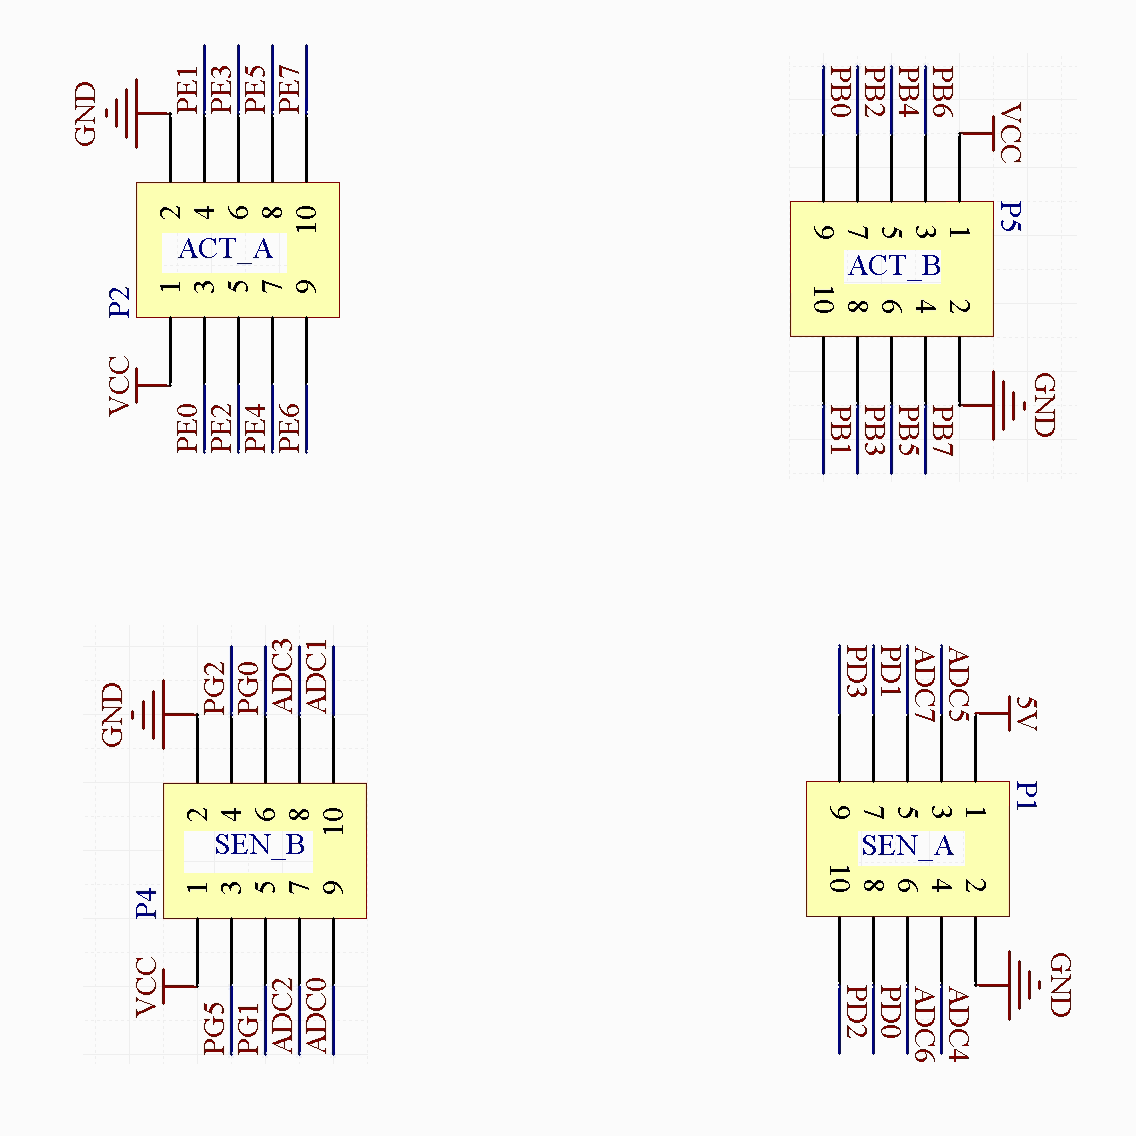
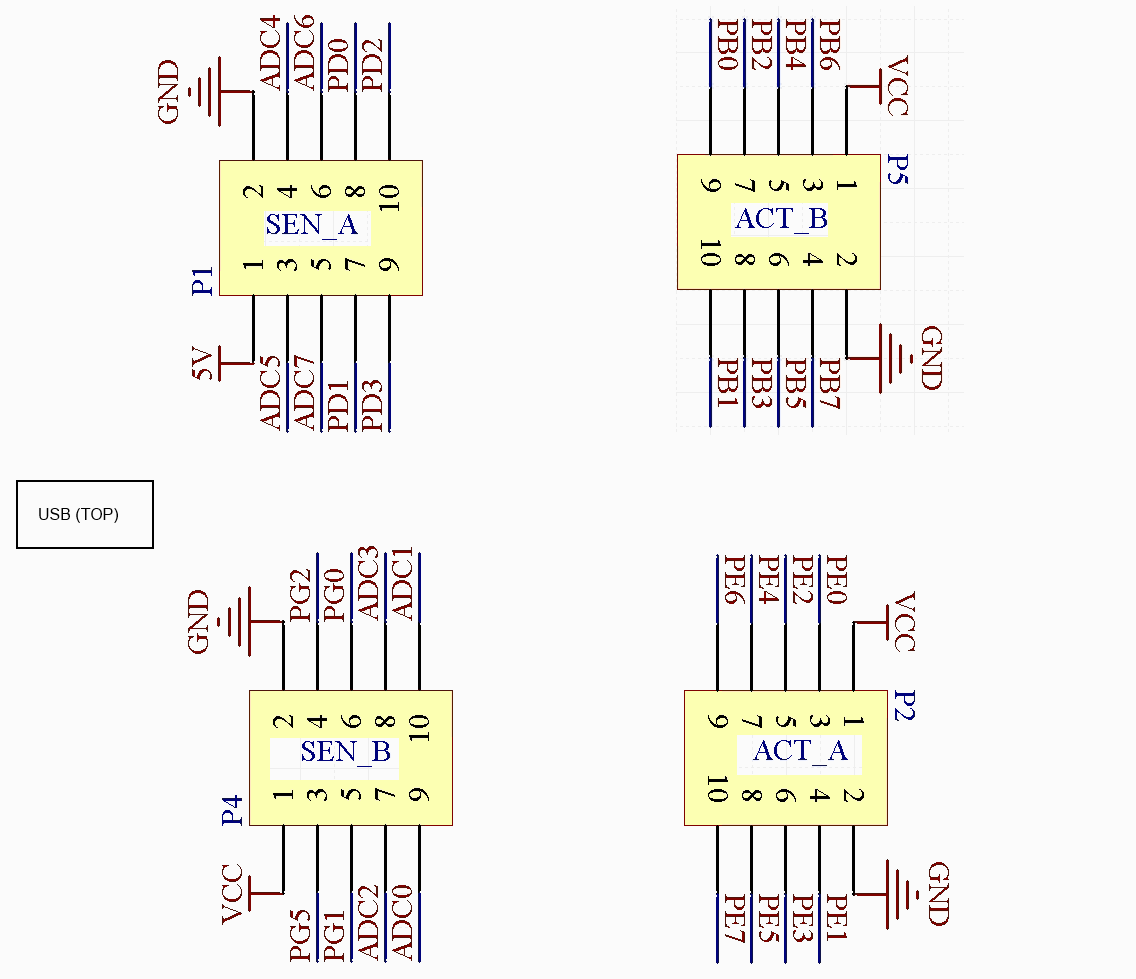
BaseBoard pin-out layout changed Dimmable status bug fix (float) SenderScreen minor changes Event subscription for status changes NetworkJoin and NodeServices fail behavior fix

diff --git a/SmartHome/App Smart Home Prototipo/Screens/SenderScreen.Designer.cs b/SmartHome/App Smart Home Prototipo/Screens/SenderScreen.Designer.cs
@@ -33,18 +33,14 @@
             this.listBoxHomeDevices = new System.Windows.Forms.ListBox();
             this.button1 = new System.Windows.Forms.Button();
             this.groupBox1 = new System.Windows.Forms.GroupBox();
-            this.tableLayoutPanel2 = new System.Windows.Forms.TableLayoutPanel();
-            this.labelState3 = new System.Windows.Forms.Label();
-            this.labelState2 = new System.Windows.Forms.Label();
-            this.labelState1 = new System.Windows.Forms.Label();
             this.groupBox2 = new System.Windows.Forms.GroupBox();
             this.tableLayoutPanel3 = new System.Windows.Forms.TableLayoutPanel();
             this.button2 = new System.Windows.Forms.Button();
             this.operationList = new System.Windows.Forms.ListBox();
+            this.flowLayoutPanelState = new System.Windows.Forms.FlowLayoutPanel();
             this.tableLayoutPanel1.SuspendLayout();
             this.groupBox8.SuspendLayout();
             this.groupBox1.SuspendLayout();
-            this.tableLayoutPanel2.SuspendLayout();
             this.groupBox2.SuspendLayout();
             this.SuspendLayout();
             // 
@@ -102,57 +98,13 @@
             this.groupBox1.Anchor = ((System.Windows.Forms.AnchorStyles)((((System.Windows.Forms.AnchorStyles.Top | System.Windows.Forms.AnchorStyles.Bottom) 
             | System.Windows.Forms.AnchorStyles.Left) 
             | System.Windows.Forms.AnchorStyles.Right)));
-            this.groupBox1.Controls.Add(this.tableLayoutPanel2);
+            this.groupBox1.Controls.Add(this.flowLayoutPanelState);
             this.groupBox1.Location = new System.Drawing.Point(237, 3);
             this.groupBox1.Name = "groupBox1";
             this.groupBox1.Size = new System.Drawing.Size(228, 362);
             this.groupBox1.TabIndex = 34;
             this.groupBox1.TabStop = false;
             this.groupBox1.Text = "STATE";
-            // 
-            // tableLayoutPanel2
-            // 
-            this.tableLayoutPanel2.ColumnCount = 1;
-            this.tableLayoutPanel2.ColumnStyles.Add(new System.Windows.Forms.ColumnStyle(System.Windows.Forms.SizeType.Percent, 100F));
-            this.tableLayoutPanel2.ColumnStyles.Add(new System.Windows.Forms.ColumnStyle(System.Windows.Forms.SizeType.Absolute, 20F));
-            this.tableLayoutPanel2.Controls.Add(this.labelState3, 0, 2);
-            this.tableLayoutPanel2.Controls.Add(this.labelState2, 0, 1);
-            this.tableLayoutPanel2.Controls.Add(this.labelState1, 0, 0);
-            this.tableLayoutPanel2.Location = new System.Drawing.Point(6, 19);
-            this.tableLayoutPanel2.Name = "tableLayoutPanel2";
-            this.tableLayoutPanel2.RowCount = 3;
-            this.tableLayoutPanel2.RowStyles.Add(new System.Windows.Forms.RowStyle(System.Windows.Forms.SizeType.Percent, 33.33333F));
-            this.tableLayoutPanel2.RowStyles.Add(new System.Windows.Forms.RowStyle(System.Windows.Forms.SizeType.Percent, 33.33333F));
-            this.tableLayoutPanel2.RowStyles.Add(new System.Windows.Forms.RowStyle(System.Windows.Forms.SizeType.Percent, 33.33333F));
-            this.tableLayoutPanel2.Size = new System.Drawing.Size(215, 337);
-            this.tableLayoutPanel2.TabIndex = 0;
-            // 
-            // labelState3
-            // 
-            this.labelState3.AutoSize = true;
-            this.labelState3.Location = new System.Drawing.Point(3, 224);
-            this.labelState3.Name = "labelState3";
-            this.labelState3.Size = new System.Drawing.Size(35, 13);
-            this.labelState3.TabIndex = 2;
-            this.labelState3.Text = "label3";
-            // 
-            // labelState2
-            // 
-            this.labelState2.AutoSize = true;
-            this.labelState2.Location = new System.Drawing.Point(3, 112);
-            this.labelState2.Name = "labelState2";
-            this.labelState2.Size = new System.Drawing.Size(35, 13);
-            this.labelState2.TabIndex = 1;
-            this.labelState2.Text = "label2";
-            // 
-            // labelState1
-            // 
-            this.labelState1.AutoSize = true;
-            this.labelState1.Location = new System.Drawing.Point(3, 0);
-            this.labelState1.Name = "labelState1";
-            this.labelState1.Size = new System.Drawing.Size(35, 13);
-            this.labelState1.TabIndex = 0;
-            this.labelState1.Text = "label1";
             // 
             // groupBox2
             // 
@@ -202,6 +154,14 @@
             this.operationList.TabIndex = 0;
             this.operationList.SelectedIndexChanged += new System.EventHandler(this.SetSenderOperationForm);
             // 
+            // flowLayoutPanelState
+            // 
+            this.flowLayoutPanelState.FlowDirection = System.Windows.Forms.FlowDirection.TopDown;
+            this.flowLayoutPanelState.Location = new System.Drawing.Point(7, 19);
+            this.flowLayoutPanelState.Name = "flowLayoutPanelState";
+            this.flowLayoutPanelState.Size = new System.Drawing.Size(215, 343);
+            this.flowLayoutPanelState.TabIndex = 0;
+            // 
             // SenderScreen
             // 
             this.AutoScaleDimensions = new System.Drawing.SizeF(6F, 13F);
@@ -213,8 +173,6 @@
             this.tableLayoutPanel1.ResumeLayout(false);
             this.groupBox8.ResumeLayout(false);
             this.groupBox1.ResumeLayout(false);
-            this.tableLayoutPanel2.ResumeLayout(false);
-            this.tableLayoutPanel2.PerformLayout();
             this.groupBox2.ResumeLayout(false);
             this.ResumeLayout(false);
 
@@ -227,13 +185,10 @@
         private System.Windows.Forms.ListBox listBoxHomeDevices;
         private System.Windows.Forms.Button button1;
         private System.Windows.Forms.GroupBox groupBox1;
-        private System.Windows.Forms.TableLayoutPanel tableLayoutPanel2;
         private System.Windows.Forms.GroupBox groupBox2;
         private System.Windows.Forms.Button button2;
         private System.Windows.Forms.ListBox operationList;
-        private System.Windows.Forms.Label labelState3;
-        private System.Windows.Forms.Label labelState2;
-        private System.Windows.Forms.Label labelState1;
         private System.Windows.Forms.TableLayoutPanel tableLayoutPanel3;
+        private System.Windows.Forms.FlowLayoutPanel flowLayoutPanelState;
     }
 }

diff --git a/SmartHome/App Smart Home Prototipo/Screens/SenderScreen.cs b/SmartHome/App Smart Home Prototipo/Screens/SenderScreen.cs
@@ -20,16 +20,31 @@ namespace App_Smart_Home_Prototipo.Screens
         {
             InitializeComponent();
             RefreshDevices();
+
+            Services.HomeDeviceService.StatusChanged += HomeDeviceService_StatusChanged;
+        }
+
+        void HomeDeviceService_StatusChanged(object sender, HomeDeviceDTO hd)
+        {
+            this.UIThread(() =>
+                {
+                    this.RefreshDevices();
+                });
         }
 
         private void RefreshDevices()
         {
+            var selectedItem = this.listBoxHomeDevices.SelectedItem as HomeDeviceDTO;
+            int previusHDId = selectedItem != null ? selectedItem.Id : -1;
+
             this.listBoxHomeDevices.SelectedIndex = -1;
             this.listBoxHomeDevices.Items.Clear();
             this.listBoxHomeDevices.Items.AddRange(Services.HomeDeviceService.GetAllHomeDevices(true).ToArray());
 
-            if (this.listBoxHomeDevices.Items.Count > 0)
-                this.listBoxHomeDevices.SelectedIndex = 0;
+            if (previusHDId != -1 && this.listBoxHomeDevices.Items.Count > 0)
+            {
+                this.listBoxHomeDevices.SelectedItem = this.listBoxHomeDevices.Items.OfType<HomeDeviceDTO>().FirstOrDefault(hd => hd.Id == previusHDId);
+            }
         }
 
 
@@ -37,17 +52,18 @@ namespace App_Smart_Home_Prototipo.Screens
         {
             if (this.listBoxHomeDevices.SelectedItem != null)
             {
-                //GET HOME DEVICE
                 HomeDeviceDTO updateHomeDevice = (HomeDeviceDTO)this.listBoxHomeDevices.SelectedItem;
 
-                if (updateHomeDevice.State.Count() >= 1)
-                    this.labelState1.Text = updateHomeDevice.State.ToList()[0].ToString();
+                // UPDATE STATUS
+                this.flowLayoutPanelState.Controls.Clear();
 
-                if (updateHomeDevice.State.Count() >= 2)
-                    this.labelState1.Text = updateHomeDevice.State.ToList()[1].ToString();
-
-                if (updateHomeDevice.State.Count() >= 3)
-                    this.labelState1.Text = updateHomeDevice.State.ToList()[2].ToString();
+                foreach (var stateVar in updateHomeDevice.State)
+                {
+                    this.flowLayoutPanelState.Controls.Add(new Label()
+                    {
+                        Text = stateVar.ToString()
+                    });
+                }
 
                 //GET OPERATIONS
                 this.operationList.Items.Clear();
@@ -66,7 +82,7 @@ namespace App_Smart_Home_Prototipo.Screens
                 OperationDefinitionDTO operation = Services.OperationService.GetDefinitionOperation(homeDevice.Id, operationName);
 
                 tableLayoutPanel3.Controls.Clear();
-                for (int i = 1; i < operation.Args.Count(); i++) //1 because we don't add the "this" expression
+                for (int i = 0; i < operation.Args.Count(); i++)
                 {
                     SetControl(operation.Args[i], i);
                 }
@@ -100,8 +116,8 @@ namespace App_Smart_Home_Prototipo.Screens
         {
             if (this.operationList.SelectedItem != null && this.listBoxHomeDevices.SelectedItem != null)
             {
-                HomeDeviceDTO homeDevice = (HomeDeviceDTO) this.listBoxHomeDevices.SelectedItem;
-                string nameOperation = (string) operationList.SelectedItem;
+                HomeDeviceDTO homeDevice = (HomeDeviceDTO)this.listBoxHomeDevices.SelectedItem;
+                string nameOperation = (string)operationList.SelectedItem;
 
                 object[] args = new object[this.tableLayoutPanel3.Controls.Count];
 
@@ -122,7 +138,7 @@ namespace App_Smart_Home_Prototipo.Screens
                 return (control as ByteControl).Value;
             if (control is ColorControl)
                 return (control as ColorControl).Value;
-            
+
             throw new Exception("Not Implemented or problem DEBUG");
         }
 

diff --git a/SmartHome/ServiceLayer/Services/OperationServices.cs b/SmartHome/ServiceLayer/Services/OperationServices.cs
@@ -10,6 +10,7 @@ using SmartHome.BusinessEntities.BusinessHomeDevice;
 using AutoMapper;
 using DataLayer.Entities.HomeDevices;
 using System.Linq;
+using System.Runtime.CompilerServices;
 #endregion
 
 namespace ServiceLayer
@@ -91,13 +92,17 @@ namespace ServiceLayer
 
             MethodInfo method = homeDevice.GetArgsOperation(nameOperation);
 
+            // For extension method. Remove the frist parameter (extension parameter)
+            IEnumerable<ParameterInfo> methodParameters = method.IsDefined(typeof(ExtensionAttribute), true) ?
+                method.GetParameters().Skip(1) :
+                method.GetParameters();
+
             OperationDefinitionDTO operationResult = new OperationDefinitionDTO
             {
                 NameOperation = method.Name,
                 ReturnValueType = method.ReturnType.ToString(),
-                Args =
-                    method.GetParameters()
-                        .Select(p => new ParamDTO { Name = p.Name, Type = p.ParameterType.ToString() })
+                Args = methodParameters
+                        .Select(p => new ParamDTO { Name = p.Name, Type = p.ParameterType.ToString(), Value = p.DefaultValue })
                         .ToArray(),
             };
 

diff --git a/SmartHome/SmartHome/Communications/Modules/StatusModule.cs b/SmartHome/SmartHome/Communications/Modules/StatusModule.cs
@@ -53,9 +53,9 @@ namespace SmartHome.Communications.Modules
 
             foreach (var hd in homeDevices)
             {
-                if (hd.LastStatusUpdate == null)
+                if (!hd.LastStatusUpdate.HasValue)
                 {
-                    //TODO: Call to RefreshState Method with the priority of this module
+                    // Call to RefreshState Method with the priority of this module
                     OperationMessage refreshMessage = hd.RefreshState();
                     await this.SendMessage(refreshMessage);
                 }
@@ -251,7 +251,7 @@ namespace SmartHome.Communications.Modules
 
                 if (dimmerHD != null)
                 {
-                    dimmerHD.Value = value;
+                    dimmerHD.Value = value / 100f;
                     dimmerHD.LastStatusUpdate = DateTime.Now;
 
                     OnStateRefresh(dimmerHD);

diff --git a/SmartHome/DataLayer/Entities/HomeDevices/Dimmable.cs b/SmartHome/DataLayer/Entities/HomeDevices/Dimmable.cs
@@ -17,7 +17,6 @@ namespace DataLayer.Entities.HomeDevices
     [Table("Dimmable")]
     public class Dimmable : HomeDevice
     {
-        [PropertyAttribute]
         public DimmableTypes Type { get; set; }
 
         [NotMapped]
@@ -33,12 +32,16 @@ namespace DataLayer.Entities.HomeDevices
                 if (value.HasValue)
                     value = Math.Min(1f, Math.Max(0f, value.Value));
 
-                this.StoreProperty("LastValue", this.Value);
-                this.StoreProperty("Value", value);
+                if (this.Value != value)
+                {
+                    this.StoreProperty("LastValue", this.Value);
+                    this.StoreProperty("Value", value);
+                }
             }
         }
 
         [NotMapped]
+        [PropertyAttribute]
         public float? LastValue
         {
             get

diff --git a/SmartHome/ServiceLayer/Services/HomeDeviceServices.cs b/SmartHome/ServiceLayer/Services/HomeDeviceServices.cs
@@ -10,12 +10,28 @@ using SmartHome.Products;
 using System;
 using System.Collections.Generic;
 using System.Linq;
+using SmartHome.Communications.Modules;
 #endregion
 
 namespace ServiceLayer
 {
     public class HomeDeviceService
     {
+#if DEBUG
+        public event EventHandler<HomeDeviceDTO> StatusChanged;
+
+        public HomeDeviceService()
+        {
+            SmartHome.Communications.CommunicationManager.Instance.FindModule<StatusModule>().StateRefreshed += (s, hd) =>
+                {
+                    if (this.StatusChanged != null)
+                    {
+                        this.StatusChanged(this, Mapper.Map<HomeDeviceDTO>(hd));
+                    }
+                };
+        }
+#endif
+
         public int AddHomeDevice(string nameHomeDevice, string homeDeviceType)
         {
             HomeDevice homeDevice;

diff --git a/SmartHome/SmartHome/Communications/Modules/Network/NetworkJoin.cs b/SmartHome/SmartHome/Communications/Modules/Network/NetworkJoin.cs
@@ -161,8 +161,6 @@ namespace SmartHome.Communications.Modules.Network
 
             if (result)
             {
-                this.PendingNodes.Remove(info);
-
                 Debug.WriteLine(string.Format("JOIN ACCEPTED {0} -> NEW ADDRESS: 0x{1:X2}", macAddress, newAddress));
 
                 if (this.NodeJoined != null)
@@ -172,6 +170,8 @@ namespace SmartHome.Communications.Modules.Network
             {
                 Debug.WriteLine(string.Format("THE NODE {0} DOESN'T RECEIVE THE JOIN ACCEPT RESPONSE", macAddress));
             }
+
+            this.PendingNodes.Remove(info);
 
             return result;
         }

diff --git a/SmartHome/ServiceLayer/Services/NodeServices.cs b/SmartHome/ServiceLayer/Services/NodeServices.cs
@@ -48,10 +48,16 @@ namespace ServiceLayer
                     node.Address = repository.NodeRespository.GetNewAddress();
 
                     node = repository.NodeRespository.Insert(node);
+                }
+
+                bool accepted = await joinMod.AcceptNode(MAC, (ushort)node.Address, home.Security);
+
+                if (accepted)
+                {
                     repository.Commit();
                 }
 
-                return await joinMod.AcceptNode(MAC, (ushort)node.Address, home.Security);
+                return accepted;
             }
 
             return false;

diff --git a/SmartHome/App Smart Home Prototipo/Screens/ScreenHelper.cs b/SmartHome/App Smart Home Prototipo/Screens/ScreenHelper.cs
@@ -1,0 +1,24 @@
+using System;
+using System.Collections.Generic;
+using System.Linq;
+using System.Text;
+using System.Threading.Tasks;
+using System.Windows.Forms;
+
+namespace App_Smart_Home_Prototipo.Screens
+{
+    public static class ScreenHelper
+    {
+        public static void UIThread(this Form form, Action code)
+        {
+            if (form.InvokeRequired)
+            {
+                form.BeginInvoke(code);
+            }
+            else
+            {
+                code.Invoke();
+            }
+        }
+    }
+}
